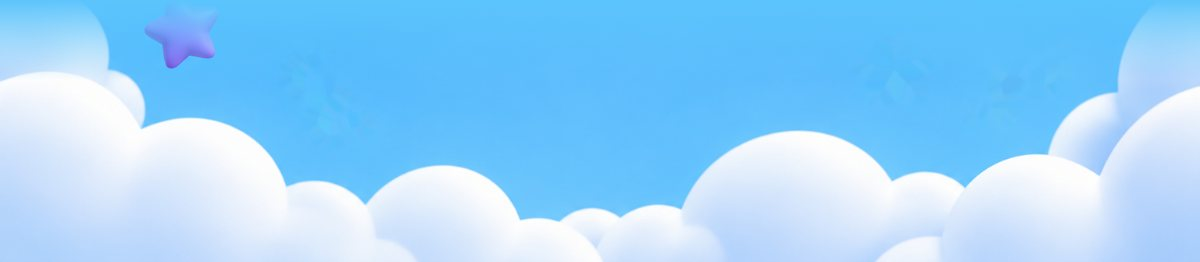
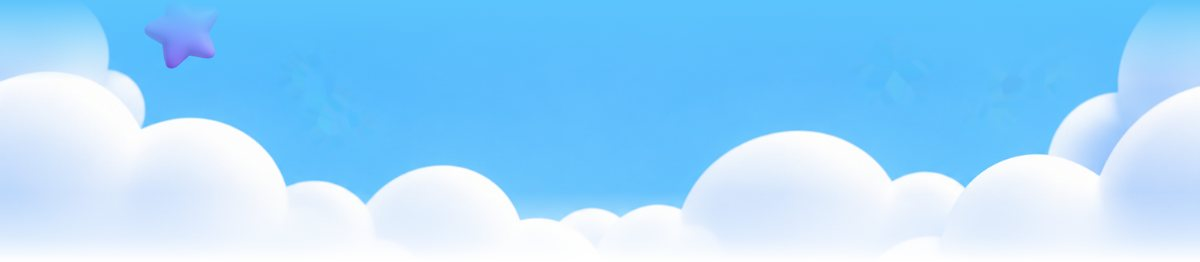
Nubes unificadas en todo el email y botones sin esquinas blancas
Claude-Session: https://claude.ai/code/session_014n8fruw4BUtYLKWozkJouR

Changed region(s): [[0.4933, 0.8244, 1.0, 1.0], [0.0, 0.8244, 0.4625, 1.0], [0.4317, 0.7634, 0.555, 0.855]]

diff --git a/index.html b/index.html
@@ -19,52 +19,52 @@ body{margin:0;padding:0;background:#EEF3F9}
 <tr><td align="center" style="padding:10px 16px;font-family:Arial, Helvetica, sans-serif;font-size:12px;line-height:18px;color:#4A5878;background:#EEF3F9">
 <strong style="color:#0B2A6F">Publicidad</strong> · Ejercicio académico. Mercaviva es una marca ficticia; no es una comunicación oficial de Carrefour.<br>
 ¿No ves bien este email? <a href="{$url}" target="_blank" style="color:#0057B8;text-decoration:underline">Ábrelo en el navegador</a></td></tr>
-<tr><td style="padding:0"><a href="https://www.carrefour.es/lavadora-lg-f2x50s9tlb-9-kg-carga-frontal-1200-rpm-wifi-clase-a-blanco/VC4A-32514266/p?utm_source=newsletter&utm_medium=email&utm_campaign=black_friday_2026&utm_content=lavadora_lg" target="_blank"><img src="https://caarlosfdz.github.io/newsletter-mercaviva/bf-cover.jpg?v=10190848" width="600" alt="Mercaviva. Black Friday del 20 de octubre al 27 de noviembre: 50 % y 70 % de descuento en tecnología, electrodomésticos y alimentación" class="fluid" style="display:block;width:100%;max-width:600px;height:auto;border:0"></a></td></tr>
-<tr><td style="padding:0"><a href="https://www.carrefour.es/lavadora-lg-f2x50s9tlb-9-kg-carga-frontal-1200-rpm-wifi-clase-a-blanco/VC4A-32514266/p?utm_source=newsletter&utm_medium=email&utm_campaign=black_friday_2026&utm_content=lavadora_lg" target="_blank"><img src="https://caarlosfdz.github.io/newsletter-mercaviva/bf-p1.jpg?v=10190848" width="600" alt="Lavadora LG 9 kg: 164,70 €, antes 549 €, 70 % de descuento" class="fluid" style="display:block;width:100%;max-width:600px;height:auto;border:0"></a></td></tr>
-<tr><td style="padding:0"><img src="https://caarlosfdz.github.io/newsletter-mercaviva/bf-tit-tecnologia.jpg?v=10190848" width="600" alt="Ofertas en tecnología: descuentos de hasta el 70 %" class="fluid" style="display:block;width:100%;max-width:600px;height:auto;border:0"></td></tr>
-<tr><td style="padding:0"><img src="https://caarlosfdz.github.io/newsletter-mercaviva/bf-nubes-arriba.jpg?v=10190848" width="600" alt="" class="fluid" style="display:block;width:100%;max-width:600px;height:auto;border:0"></td></tr>
+<tr><td style="padding:0"><a href="https://www.carrefour.es/lavadora-lg-f2x50s9tlb-9-kg-carga-frontal-1200-rpm-wifi-clase-a-blanco/VC4A-32514266/p?utm_source=newsletter&utm_medium=email&utm_campaign=black_friday_2026&utm_content=lavadora_lg" target="_blank"><img src="https://caarlosfdz.github.io/newsletter-mercaviva/bf-cover.jpg?v=10190853" width="600" alt="Mercaviva. Black Friday del 20 de octubre al 27 de noviembre: 50 % y 70 % de descuento en tecnología, electrodomésticos y alimentación" class="fluid" style="display:block;width:100%;max-width:600px;height:auto;border:0"></a></td></tr>
+<tr><td style="padding:0"><a href="https://www.carrefour.es/lavadora-lg-f2x50s9tlb-9-kg-carga-frontal-1200-rpm-wifi-clase-a-blanco/VC4A-32514266/p?utm_source=newsletter&utm_medium=email&utm_campaign=black_friday_2026&utm_content=lavadora_lg" target="_blank"><img src="https://caarlosfdz.github.io/newsletter-mercaviva/bf-p1.jpg?v=10190853" width="600" alt="Lavadora LG 9 kg: 164,70 €, antes 549 €, 70 % de descuento" class="fluid" style="display:block;width:100%;max-width:600px;height:auto;border:0"></a></td></tr>
+<tr><td style="padding:0"><img src="https://caarlosfdz.github.io/newsletter-mercaviva/bf-tit-tecnologia.jpg?v=10190853" width="600" alt="Ofertas en tecnología: descuentos de hasta el 70 %" class="fluid" style="display:block;width:100%;max-width:600px;height:auto;border:0"></td></tr>
+<tr><td style="padding:0"><img src="https://caarlosfdz.github.io/newsletter-mercaviva/bf-nubes-arriba.jpg?v=10190853" width="600" alt="" class="fluid" style="display:block;width:100%;max-width:600px;height:auto;border:0"></td></tr>
 <tr><td bgcolor="#5CC4FC" style="padding:0;background:#5CC4FC"><table role="presentation" cellpadding="0" cellspacing="0" border="0" width="100%"><tr>
-<td class="col" width="300" valign="top" style="width:300px;vertical-align:top"><a href="https://www.carrefour.es/proyector-yaber-pro-u9-proyector-1080p-nativo-con-wifi-5g-y-bluetooth-15000lm-brillo-ultra-alto-460-ansi-corrector-keystone-4p-4d/0602561264473/p?utm_source=newsletter&utm_medium=email&utm_campaign=black_friday_2026&utm_content=proyector_yaber" target="_blank"><img src="https://caarlosfdz.github.io/newsletter-mercaviva/bf-p6.png?v=10190848" width="300" alt="Proyector Yaber Pro U9: 95,22 €, antes 218,99 €, −56,5 % y envío gratis" class="fluid" style="display:block;width:100%;max-width:300px;height:auto;border:0"></a>
-<div style="padding:4px 14px 26px"><table role="presentation" cellpadding="0" cellspacing="0" border="0" width="100%"><tr><td align="center" bgcolor="#FFFFFF" style="border-radius:40px">
-<a href="https://www.carrefour.es/proyector-yaber-pro-u9-proyector-1080p-nativo-con-wifi-5g-y-bluetooth-15000lm-brillo-ultra-alto-460-ansi-corrector-keystone-4p-4d/0602561264473/p?utm_source=newsletter&utm_medium=email&utm_campaign=black_friday_2026&utm_content=proyector_yaber" target="_blank" style="display:block;text-decoration:none"><img src="https://caarlosfdz.github.io/newsletter-mercaviva/bf-btn-p6.png?v=10190848" width="270" alt="Llévatelo ya" class="fluid" style="display:block;width:100%;max-width:270px;height:auto;border:0;font-family:Arial, Helvetica, sans-serif;font-size:16px;font-weight:bold;line-height:52px;color:#0B2A6F;text-align:center"></a></td></tr></table></div></td>
-<td class="col" width="300" valign="top" style="width:300px;vertical-align:top"><a href="https://www.carrefour.es/lavavajillas-60-cm-candy-cf3e7e0w-5-programas-13-cubiertos-clase-e-blanco/VC4A-33175690/p?utm_source=newsletter&utm_medium=email&utm_campaign=black_friday_2026&utm_content=lavavajillas_candy" target="_blank"><img src="https://caarlosfdz.github.io/newsletter-mercaviva/bf-p2.png?v=10190848" width="300" alt="Lavavajillas Candy CF3E7E0W: 154,50 €, antes 309 €, −50 %" class="fluid" style="display:block;width:100%;max-width:300px;height:auto;border:0"></a>
-<div style="padding:4px 14px 26px"><table role="presentation" cellpadding="0" cellspacing="0" border="0" width="100%"><tr><td align="center" bgcolor="#FFFFFF" style="border-radius:40px">
-<a href="https://www.carrefour.es/lavavajillas-60-cm-candy-cf3e7e0w-5-programas-13-cubiertos-clase-e-blanco/VC4A-33175690/p?utm_source=newsletter&utm_medium=email&utm_campaign=black_friday_2026&utm_content=lavavajillas_candy" target="_blank" style="display:block;text-decoration:none"><img src="https://caarlosfdz.github.io/newsletter-mercaviva/bf-btn-p2.png?v=10190848" width="270" alt="Aprovecha el −50 %" class="fluid" style="display:block;width:100%;max-width:270px;height:auto;border:0;font-family:Arial, Helvetica, sans-serif;font-size:16px;font-weight:bold;line-height:52px;color:#0B2A6F;text-align:center"></a></td></tr></table></div></td></tr></table></td></tr>
+<td class="col" width="300" valign="top" style="width:300px;vertical-align:top"><a href="https://www.carrefour.es/proyector-yaber-pro-u9-proyector-1080p-nativo-con-wifi-5g-y-bluetooth-15000lm-brillo-ultra-alto-460-ansi-corrector-keystone-4p-4d/0602561264473/p?utm_source=newsletter&utm_medium=email&utm_campaign=black_friday_2026&utm_content=proyector_yaber" target="_blank"><img src="https://caarlosfdz.github.io/newsletter-mercaviva/bf-p6.png?v=10190853" width="300" alt="Proyector Yaber Pro U9: 95,22 €, antes 218,99 €, −56,5 % y envío gratis" class="fluid" style="display:block;width:100%;max-width:300px;height:auto;border:0"></a>
+<div style="padding:4px 14px 26px"><table role="presentation" cellpadding="0" cellspacing="0" border="0" width="100%"><tr><td align="center" bgcolor="#5CC4FC" style="background:#5CC4FC">
+<a href="https://www.carrefour.es/proyector-yaber-pro-u9-proyector-1080p-nativo-con-wifi-5g-y-bluetooth-15000lm-brillo-ultra-alto-460-ansi-corrector-keystone-4p-4d/0602561264473/p?utm_source=newsletter&utm_medium=email&utm_campaign=black_friday_2026&utm_content=proyector_yaber" target="_blank" style="display:block;text-decoration:none"><img src="https://caarlosfdz.github.io/newsletter-mercaviva/bf-btn-p6.png?v=10190853" width="270" alt="Llévatelo ya" class="fluid" style="display:block;width:100%;max-width:270px;height:auto;border:0;font-family:Arial, Helvetica, sans-serif;font-size:16px;font-weight:bold;line-height:52px;color:#0B2A6F;text-align:center"></a></td></tr></table></div></td>
+<td class="col" width="300" valign="top" style="width:300px;vertical-align:top"><a href="https://www.carrefour.es/lavavajillas-60-cm-candy-cf3e7e0w-5-programas-13-cubiertos-clase-e-blanco/VC4A-33175690/p?utm_source=newsletter&utm_medium=email&utm_campaign=black_friday_2026&utm_content=lavavajillas_candy" target="_blank"><img src="https://caarlosfdz.github.io/newsletter-mercaviva/bf-p2.png?v=10190853" width="300" alt="Lavavajillas Candy CF3E7E0W: 154,50 €, antes 309 €, −50 %" class="fluid" style="display:block;width:100%;max-width:300px;height:auto;border:0"></a>
+<div style="padding:4px 14px 26px"><table role="presentation" cellpadding="0" cellspacing="0" border="0" width="100%"><tr><td align="center" bgcolor="#5CC4FC" style="background:#5CC4FC">
+<a href="https://www.carrefour.es/lavavajillas-60-cm-candy-cf3e7e0w-5-programas-13-cubiertos-clase-e-blanco/VC4A-33175690/p?utm_source=newsletter&utm_medium=email&utm_campaign=black_friday_2026&utm_content=lavavajillas_candy" target="_blank" style="display:block;text-decoration:none"><img src="https://caarlosfdz.github.io/newsletter-mercaviva/bf-btn-p2.png?v=10190853" width="270" alt="Aprovecha el −50 %" class="fluid" style="display:block;width:100%;max-width:270px;height:auto;border:0;font-family:Arial, Helvetica, sans-serif;font-size:16px;font-weight:bold;line-height:52px;color:#0B2A6F;text-align:center"></a></td></tr></table></div></td></tr></table></td></tr>
 <tr><td bgcolor="#5CC4FC" style="padding:0;background:#5CC4FC"><table role="presentation" cellpadding="0" cellspacing="0" border="0" width="100%"><tr>
-<td class="col" width="300" valign="top" style="width:300px;vertical-align:top"><a href="https://www.carrefour.es/tv-lg-oled-evo-c5-2025-83-uhd-4k-oled83c5ela/8806096419687/p?utm_source=newsletter&utm_medium=email&utm_campaign=black_friday_2026&utm_content=tv_lg_oled" target="_blank"><img src="https://caarlosfdz.github.io/newsletter-mercaviva/bf-p5.png?v=10190848" width="300" alt="TV LG OLED evo C5 83 pulgadas: 4.877,62 €, antes 6.150,99 €, −20,7 %" class="fluid" style="display:block;width:100%;max-width:300px;height:auto;border:0"></a>
-<div style="padding:4px 14px 26px"><table role="presentation" cellpadding="0" cellspacing="0" border="0" width="100%"><tr><td align="center" bgcolor="#FFFFFF" style="border-radius:40px">
-<a href="https://www.carrefour.es/tv-lg-oled-evo-c5-2025-83-uhd-4k-oled83c5ela/8806096419687/p?utm_source=newsletter&utm_medium=email&utm_campaign=black_friday_2026&utm_content=tv_lg_oled" target="_blank" style="display:block;text-decoration:none"><img src="https://caarlosfdz.github.io/newsletter-mercaviva/bf-btn-p5.png?v=10190848" width="270" alt="Ahorra 1.273 €" class="fluid" style="display:block;width:100%;max-width:270px;height:auto;border:0;font-family:Arial, Helvetica, sans-serif;font-size:16px;font-weight:bold;line-height:52px;color:#0B2A6F;text-align:center"></a></td></tr></table></div></td>
-<td class="col" width="300" valign="top" style="width:300px;vertical-align:top"><a href="https://www.carrefour.es/consola-nintendo-switch-2-256-gb-star-fox/VLOT-34789303/p?utm_source=newsletter&utm_medium=email&utm_campaign=black_friday_2026&utm_content=switch2_starfox" target="_blank"><img src="https://caarlosfdz.github.io/newsletter-mercaviva/bf-p3.png?v=10190848" width="300" alt="Nintendo Switch 2 + Star Fox: súperchollo a 519 €" class="fluid" style="display:block;width:100%;max-width:300px;height:auto;border:0"></a>
-<div style="padding:4px 14px 26px"><table role="presentation" cellpadding="0" cellspacing="0" border="0" width="100%"><tr><td align="center" bgcolor="#FFFFFF" style="border-radius:40px">
-<a href="https://www.carrefour.es/consola-nintendo-switch-2-256-gb-star-fox/VLOT-34789303/p?utm_source=newsletter&utm_medium=email&utm_campaign=black_friday_2026&utm_content=switch2_starfox" target="_blank" style="display:block;text-decoration:none"><img src="https://caarlosfdz.github.io/newsletter-mercaviva/bf-btn-p3.png?v=10190848" width="270" alt="Ver el súperchollo" class="fluid" style="display:block;width:100%;max-width:270px;height:auto;border:0;font-family:Arial, Helvetica, sans-serif;font-size:16px;font-weight:bold;line-height:52px;color:#0B2A6F;text-align:center"></a></td></tr></table></div></td></tr></table></td></tr>
+<td class="col" width="300" valign="top" style="width:300px;vertical-align:top"><a href="https://www.carrefour.es/tv-lg-oled-evo-c5-2025-83-uhd-4k-oled83c5ela/8806096419687/p?utm_source=newsletter&utm_medium=email&utm_campaign=black_friday_2026&utm_content=tv_lg_oled" target="_blank"><img src="https://caarlosfdz.github.io/newsletter-mercaviva/bf-p5.png?v=10190853" width="300" alt="TV LG OLED evo C5 83 pulgadas: 4.877,62 €, antes 6.150,99 €, −20,7 %" class="fluid" style="display:block;width:100%;max-width:300px;height:auto;border:0"></a>
+<div style="padding:4px 14px 26px"><table role="presentation" cellpadding="0" cellspacing="0" border="0" width="100%"><tr><td align="center" bgcolor="#5CC4FC" style="background:#5CC4FC">
+<a href="https://www.carrefour.es/tv-lg-oled-evo-c5-2025-83-uhd-4k-oled83c5ela/8806096419687/p?utm_source=newsletter&utm_medium=email&utm_campaign=black_friday_2026&utm_content=tv_lg_oled" target="_blank" style="display:block;text-decoration:none"><img src="https://caarlosfdz.github.io/newsletter-mercaviva/bf-btn-p5.png?v=10190853" width="270" alt="Ahorra 1.273 €" class="fluid" style="display:block;width:100%;max-width:270px;height:auto;border:0;font-family:Arial, Helvetica, sans-serif;font-size:16px;font-weight:bold;line-height:52px;color:#0B2A6F;text-align:center"></a></td></tr></table></div></td>
+<td class="col" width="300" valign="top" style="width:300px;vertical-align:top"><a href="https://www.carrefour.es/consola-nintendo-switch-2-256-gb-star-fox/VLOT-34789303/p?utm_source=newsletter&utm_medium=email&utm_campaign=black_friday_2026&utm_content=switch2_starfox" target="_blank"><img src="https://caarlosfdz.github.io/newsletter-mercaviva/bf-p3.png?v=10190853" width="300" alt="Nintendo Switch 2 + Star Fox: súperchollo a 519 €" class="fluid" style="display:block;width:100%;max-width:300px;height:auto;border:0"></a>
+<div style="padding:4px 14px 26px"><table role="presentation" cellpadding="0" cellspacing="0" border="0" width="100%"><tr><td align="center" bgcolor="#5CC4FC" style="background:#5CC4FC">
+<a href="https://www.carrefour.es/consola-nintendo-switch-2-256-gb-star-fox/VLOT-34789303/p?utm_source=newsletter&utm_medium=email&utm_campaign=black_friday_2026&utm_content=switch2_starfox" target="_blank" style="display:block;text-decoration:none"><img src="https://caarlosfdz.github.io/newsletter-mercaviva/bf-btn-p3.png?v=10190853" width="270" alt="Ver el súperchollo" class="fluid" style="display:block;width:100%;max-width:270px;height:auto;border:0;font-family:Arial, Helvetica, sans-serif;font-size:16px;font-weight:bold;line-height:52px;color:#0B2A6F;text-align:center"></a></td></tr></table></div></td></tr></table></td></tr>
 
 <tr><td bgcolor="#5CC4FC" style="padding:0;background:#5CC4FC"><table role="presentation" cellpadding="0" cellspacing="0" border="0" width="100%"><tr>
-<td class="col" width="300" valign="top" style="width:300px;vertical-align:top"><a href="https://www.carrefour.es/pikmin-4-academia-dandori-para-switch-2/VC4A-34697905/p?utm_source=newsletter&utm_medium=email&utm_campaign=black_friday_2026&utm_content=pikmin4" target="_blank"><img src="https://caarlosfdz.github.io/newsletter-mercaviva/bf-p4.png?v=10190848" width="300" alt="Pikmin 4 + Academia Dandori en precompra: 59,90 €, antes 69,99 €, envío gratis" class="fluid" style="display:block;width:100%;max-width:300px;height:auto;border:0"></a>
-<div style="padding:4px 14px 26px"><table role="presentation" cellpadding="0" cellspacing="0" border="0" width="100%"><tr><td align="center" bgcolor="#FFFFFF" style="border-radius:40px">
-<a href="https://www.carrefour.es/pikmin-4-academia-dandori-para-switch-2/VC4A-34697905/p?utm_source=newsletter&utm_medium=email&utm_campaign=black_friday_2026&utm_content=pikmin4" target="_blank" style="display:block;text-decoration:none"><img src="https://caarlosfdz.github.io/newsletter-mercaviva/bf-btn-p4.png?v=10190848" width="270" alt="Resérvalo ya" class="fluid" style="display:block;width:100%;max-width:270px;height:auto;border:0;font-family:Arial, Helvetica, sans-serif;font-size:16px;font-weight:bold;line-height:52px;color:#0B2A6F;text-align:center"></a></td></tr></table></div></td>
+<td class="col" width="300" valign="top" style="width:300px;vertical-align:top"><a href="https://www.carrefour.es/pikmin-4-academia-dandori-para-switch-2/VC4A-34697905/p?utm_source=newsletter&utm_medium=email&utm_campaign=black_friday_2026&utm_content=pikmin4" target="_blank"><img src="https://caarlosfdz.github.io/newsletter-mercaviva/bf-p4.png?v=10190853" width="300" alt="Pikmin 4 + Academia Dandori en precompra: 59,90 €, antes 69,99 €, envío gratis" class="fluid" style="display:block;width:100%;max-width:300px;height:auto;border:0"></a>
+<div style="padding:4px 14px 26px"><table role="presentation" cellpadding="0" cellspacing="0" border="0" width="100%"><tr><td align="center" bgcolor="#5CC4FC" style="background:#5CC4FC">
+<a href="https://www.carrefour.es/pikmin-4-academia-dandori-para-switch-2/VC4A-34697905/p?utm_source=newsletter&utm_medium=email&utm_campaign=black_friday_2026&utm_content=pikmin4" target="_blank" style="display:block;text-decoration:none"><img src="https://caarlosfdz.github.io/newsletter-mercaviva/bf-btn-p4.png?v=10190853" width="270" alt="Resérvalo ya" class="fluid" style="display:block;width:100%;max-width:270px;height:auto;border:0;font-family:Arial, Helvetica, sans-serif;font-size:16px;font-weight:bold;line-height:52px;color:#0B2A6F;text-align:center"></a></td></tr></table></div></td>
 <td class="col" width="300" valign="middle" style="width:300px;vertical-align:middle;padding:20px;font-family:Arial, Helvetica, sans-serif;color:#0B2A6F">
 <p style="margin:0 0 8px;font-size:20px;line-height:24px;font-weight:bold">Envío gratis</p>
 <p style="margin:0;font-size:15px;line-height:21px">En los productos marcados. Ofertas válidas del 20 de octubre al 27 de noviembre o hasta fin de existencias.</p></td></tr></table></td></tr>
-<tr><td style="padding:0"><img src="https://caarlosfdz.github.io/newsletter-mercaviva/bf-nubes-abajo.jpg?v=10190848" width="600" alt="" class="fluid" style="display:block;width:100%;max-width:600px;height:auto;border:0"></td></tr>
-<tr><td style="padding:0"><img src="https://caarlosfdz.github.io/newsletter-mercaviva/bf-tit-compra.jpg?v=10190848" width="600" alt="Ofertas en tu compra: 3x2, 2.ª unidad al 50 % y precios imbatibles" class="fluid" style="display:block;width:100%;max-width:600px;height:auto;border:0"></td></tr>
-<tr><td style="padding:0"><img src="https://caarlosfdz.github.io/newsletter-mercaviva/bf-nubes-arriba.jpg?v=10190848" width="600" alt="" class="fluid" style="display:block;width:100%;max-width:600px;height:auto;border:0"></td></tr>
+<tr><td style="padding:0"><img src="https://caarlosfdz.github.io/newsletter-mercaviva/bf-nubes-abajo.jpg?v=10190853" width="600" alt="" class="fluid" style="display:block;width:100%;max-width:600px;height:auto;border:0"></td></tr>
+<tr><td style="padding:0"><img src="https://caarlosfdz.github.io/newsletter-mercaviva/bf-tit-compra.jpg?v=10190853" width="600" alt="Ofertas en tu compra: 3x2, 2.ª unidad al 50 % y precios imbatibles" class="fluid" style="display:block;width:100%;max-width:600px;height:auto;border:0"></td></tr>
+<tr><td style="padding:0"><img src="https://caarlosfdz.github.io/newsletter-mercaviva/bf-nubes-arriba.jpg?v=10190853" width="600" alt="" class="fluid" style="display:block;width:100%;max-width:600px;height:auto;border:0"></td></tr>
 <tr><td bgcolor="#5CC4FC" style="padding:0;background:#5CC4FC"><table role="presentation" cellpadding="0" cellspacing="0" border="0" width="100%"><tr>
-<td class="col" width="300" valign="top" style="width:300px;vertical-align:top"><a href="https://www.carrefour.es/supermercado/aceite-de-oliva-virgen-serie-oro-coosur-1-l/R-VC4AECOMM-484256/p?utm_source=newsletter&utm_medium=email&utm_campaign=black_friday_2026&utm_content=aceite_coosur" target="_blank"><img src="https://caarlosfdz.github.io/newsletter-mercaviva/bf-p9.png?v=10190848" width="300" alt="Aceite Coosur Serie Oro 1 l: 3x2, el litro sale a 4,13 €" class="fluid" style="display:block;width:100%;max-width:300px;height:auto;border:0"></a>
-<div style="padding:4px 14px 26px"><table role="presentation" cellpadding="0" cellspacing="0" border="0" width="100%"><tr><td align="center" bgcolor="#FFFFFF" style="border-radius:40px">
-<a href="https://www.carrefour.es/supermercado/aceite-de-oliva-virgen-serie-oro-coosur-1-l/R-VC4AECOMM-484256/p?utm_source=newsletter&utm_medium=email&utm_campaign=black_friday_2026&utm_content=aceite_coosur" target="_blank" style="display:block;text-decoration:none"><img src="https://caarlosfdz.github.io/newsletter-mercaviva/bf-btn-p9.png?v=10190848" width="270" alt="Llévate 3, paga 2" class="fluid" style="display:block;width:100%;max-width:270px;height:auto;border:0;font-family:Arial, Helvetica, sans-serif;font-size:16px;font-weight:bold;line-height:52px;color:#0B2A6F;text-align:center"></a></td></tr></table></div></td>
-<td class="col" width="300" valign="top" style="width:300px;vertical-align:top"><a href="https://www.carrefour.es/supermercado/aceite-de-oliva-suave-04-la-espanola-1-l/R-520660257/p?utm_source=newsletter&utm_medium=email&utm_campaign=black_friday_2026&utm_content=aceite_la_espanola" target="_blank"><img src="https://caarlosfdz.github.io/newsletter-mercaviva/bf-p10.png?v=10190848" width="300" alt="Aceite La Española suave 1 l: 3x2, el litro sale a 3,66 €" class="fluid" style="display:block;width:100%;max-width:300px;height:auto;border:0"></a>
-<div style="padding:4px 14px 26px"><table role="presentation" cellpadding="0" cellspacing="0" border="0" width="100%"><tr><td align="center" bgcolor="#FFFFFF" style="border-radius:40px">
-<a href="https://www.carrefour.es/supermercado/aceite-de-oliva-suave-04-la-espanola-1-l/R-520660257/p?utm_source=newsletter&utm_medium=email&utm_campaign=black_friday_2026&utm_content=aceite_la_espanola" target="_blank" style="display:block;text-decoration:none"><img src="https://caarlosfdz.github.io/newsletter-mercaviva/bf-btn-p10.png?v=10190848" width="270" alt="Aprovecha el 3x2" class="fluid" style="display:block;width:100%;max-width:270px;height:auto;border:0;font-family:Arial, Helvetica, sans-serif;font-size:16px;font-weight:bold;line-height:52px;color:#0B2A6F;text-align:center"></a></td></tr></table></div></td></tr></table></td></tr>
+<td class="col" width="300" valign="top" style="width:300px;vertical-align:top"><a href="https://www.carrefour.es/supermercado/aceite-de-oliva-virgen-serie-oro-coosur-1-l/R-VC4AECOMM-484256/p?utm_source=newsletter&utm_medium=email&utm_campaign=black_friday_2026&utm_content=aceite_coosur" target="_blank"><img src="https://caarlosfdz.github.io/newsletter-mercaviva/bf-p9.png?v=10190853" width="300" alt="Aceite Coosur Serie Oro 1 l: 3x2, el litro sale a 4,13 €" class="fluid" style="display:block;width:100%;max-width:300px;height:auto;border:0"></a>
+<div style="padding:4px 14px 26px"><table role="presentation" cellpadding="0" cellspacing="0" border="0" width="100%"><tr><td align="center" bgcolor="#5CC4FC" style="background:#5CC4FC">
+<a href="https://www.carrefour.es/supermercado/aceite-de-oliva-virgen-serie-oro-coosur-1-l/R-VC4AECOMM-484256/p?utm_source=newsletter&utm_medium=email&utm_campaign=black_friday_2026&utm_content=aceite_coosur" target="_blank" style="display:block;text-decoration:none"><img src="https://caarlosfdz.github.io/newsletter-mercaviva/bf-btn-p9.png?v=10190853" width="270" alt="Llévate 3, paga 2" class="fluid" style="display:block;width:100%;max-width:270px;height:auto;border:0;font-family:Arial, Helvetica, sans-serif;font-size:16px;font-weight:bold;line-height:52px;color:#0B2A6F;text-align:center"></a></td></tr></table></div></td>
+<td class="col" width="300" valign="top" style="width:300px;vertical-align:top"><a href="https://www.carrefour.es/supermercado/aceite-de-oliva-suave-04-la-espanola-1-l/R-520660257/p?utm_source=newsletter&utm_medium=email&utm_campaign=black_friday_2026&utm_content=aceite_la_espanola" target="_blank"><img src="https://caarlosfdz.github.io/newsletter-mercaviva/bf-p10.png?v=10190853" width="300" alt="Aceite La Española suave 1 l: 3x2, el litro sale a 3,66 €" class="fluid" style="display:block;width:100%;max-width:300px;height:auto;border:0"></a>
+<div style="padding:4px 14px 26px"><table role="presentation" cellpadding="0" cellspacing="0" border="0" width="100%"><tr><td align="center" bgcolor="#5CC4FC" style="background:#5CC4FC">
+<a href="https://www.carrefour.es/supermercado/aceite-de-oliva-suave-04-la-espanola-1-l/R-520660257/p?utm_source=newsletter&utm_medium=email&utm_campaign=black_friday_2026&utm_content=aceite_la_espanola" target="_blank" style="display:block;text-decoration:none"><img src="https://caarlosfdz.github.io/newsletter-mercaviva/bf-btn-p10.png?v=10190853" width="270" alt="Aprovecha el 3x2" class="fluid" style="display:block;width:100%;max-width:270px;height:auto;border:0;font-family:Arial, Helvetica, sans-serif;font-size:16px;font-weight:bold;line-height:52px;color:#0B2A6F;text-align:center"></a></td></tr></table></div></td></tr></table></td></tr>
 <tr><td bgcolor="#5CC4FC" style="padding:0;background:#5CC4FC"><table role="presentation" cellpadding="0" cellspacing="0" border="0" width="100%"><tr>
-<td class="col" width="300" valign="top" style="width:300px;vertical-align:top"><a href="https://www.carrefour.es/supermercado/salmon-ahumado-noruego-carrefour-extra-100-g/R-682701980/p?utm_source=newsletter&utm_medium=email&utm_campaign=black_friday_2026&utm_content=salmon_ahumado" target="_blank"><img src="https://caarlosfdz.github.io/newsletter-mercaviva/bf-p7.png?v=10190848" width="300" alt="Salmón ahumado noruego Extra 100 g: 2.ª unidad al 50 %, cada una a 2,77 €" class="fluid" style="display:block;width:100%;max-width:300px;height:auto;border:0"></a>
-<div style="padding:4px 14px 26px"><table role="presentation" cellpadding="0" cellspacing="0" border="0" width="100%"><tr><td align="center" bgcolor="#FFFFFF" style="border-radius:40px">
-<a href="https://www.carrefour.es/supermercado/salmon-ahumado-noruego-carrefour-extra-100-g/R-682701980/p?utm_source=newsletter&utm_medium=email&utm_campaign=black_friday_2026&utm_content=salmon_ahumado" target="_blank" style="display:block;text-decoration:none"><img src="https://caarlosfdz.github.io/newsletter-mercaviva/bf-btn-p7.png?v=10190848" width="270" alt="Añadir a la cesta" class="fluid" style="display:block;width:100%;max-width:270px;height:auto;border:0;font-family:Arial, Helvetica, sans-serif;font-size:16px;font-weight:bold;line-height:52px;color:#0B2A6F;text-align:center"></a></td></tr></table></div></td>
-<td class="col" width="300" valign="top" style="width:300px;vertical-align:top"><a href="https://www.carrefour.es/supermercado/lubina-600-g-aprox/R-790212148/p?utm_source=newsletter&utm_medium=email&utm_campaign=black_friday_2026&utm_content=lubina" target="_blank"><img src="https://caarlosfdz.github.io/newsletter-mercaviva/bf-p8.png?v=10190848" width="300" alt="Lubina 600 g aprox.: 5,39 €, antes 5,97 €" class="fluid" style="display:block;width:100%;max-width:300px;height:auto;border:0"></a>
-<div style="padding:4px 14px 26px"><table role="presentation" cellpadding="0" cellspacing="0" border="0" width="100%"><tr><td align="center" bgcolor="#FFFFFF" style="border-radius:40px">
-<a href="https://www.carrefour.es/supermercado/lubina-600-g-aprox/R-790212148/p?utm_source=newsletter&utm_medium=email&utm_campaign=black_friday_2026&utm_content=lubina" target="_blank" style="display:block;text-decoration:none"><img src="https://caarlosfdz.github.io/newsletter-mercaviva/bf-btn-p8.png?v=10190848" width="270" alt="Quiero esta lubina" class="fluid" style="display:block;width:100%;max-width:270px;height:auto;border:0;font-family:Arial, Helvetica, sans-serif;font-size:16px;font-weight:bold;line-height:52px;color:#0B2A6F;text-align:center"></a></td></tr></table></div></td></tr></table></td></tr>
-<tr><td style="padding:0"><img src="https://caarlosfdz.github.io/newsletter-mercaviva/bf-nubes-abajo.jpg?v=10190848" width="600" alt="" class="fluid" style="display:block;width:100%;max-width:600px;height:auto;border:0"></td></tr>
+<td class="col" width="300" valign="top" style="width:300px;vertical-align:top"><a href="https://www.carrefour.es/supermercado/salmon-ahumado-noruego-carrefour-extra-100-g/R-682701980/p?utm_source=newsletter&utm_medium=email&utm_campaign=black_friday_2026&utm_content=salmon_ahumado" target="_blank"><img src="https://caarlosfdz.github.io/newsletter-mercaviva/bf-p7.png?v=10190853" width="300" alt="Salmón ahumado noruego Extra 100 g: 2.ª unidad al 50 %, cada una a 2,77 €" class="fluid" style="display:block;width:100%;max-width:300px;height:auto;border:0"></a>
+<div style="padding:4px 14px 26px"><table role="presentation" cellpadding="0" cellspacing="0" border="0" width="100%"><tr><td align="center" bgcolor="#5CC4FC" style="background:#5CC4FC">
+<a href="https://www.carrefour.es/supermercado/salmon-ahumado-noruego-carrefour-extra-100-g/R-682701980/p?utm_source=newsletter&utm_medium=email&utm_campaign=black_friday_2026&utm_content=salmon_ahumado" target="_blank" style="display:block;text-decoration:none"><img src="https://caarlosfdz.github.io/newsletter-mercaviva/bf-btn-p7.png?v=10190853" width="270" alt="Añadir a la cesta" class="fluid" style="display:block;width:100%;max-width:270px;height:auto;border:0;font-family:Arial, Helvetica, sans-serif;font-size:16px;font-weight:bold;line-height:52px;color:#0B2A6F;text-align:center"></a></td></tr></table></div></td>
+<td class="col" width="300" valign="top" style="width:300px;vertical-align:top"><a href="https://www.carrefour.es/supermercado/lubina-600-g-aprox/R-790212148/p?utm_source=newsletter&utm_medium=email&utm_campaign=black_friday_2026&utm_content=lubina" target="_blank"><img src="https://caarlosfdz.github.io/newsletter-mercaviva/bf-p8.png?v=10190853" width="300" alt="Lubina 600 g aprox.: 5,39 €, antes 5,97 €" class="fluid" style="display:block;width:100%;max-width:300px;height:auto;border:0"></a>
+<div style="padding:4px 14px 26px"><table role="presentation" cellpadding="0" cellspacing="0" border="0" width="100%"><tr><td align="center" bgcolor="#5CC4FC" style="background:#5CC4FC">
+<a href="https://www.carrefour.es/supermercado/lubina-600-g-aprox/R-790212148/p?utm_source=newsletter&utm_medium=email&utm_campaign=black_friday_2026&utm_content=lubina" target="_blank" style="display:block;text-decoration:none"><img src="https://caarlosfdz.github.io/newsletter-mercaviva/bf-btn-p8.png?v=10190853" width="270" alt="Quiero esta lubina" class="fluid" style="display:block;width:100%;max-width:270px;height:auto;border:0;font-family:Arial, Helvetica, sans-serif;font-size:16px;font-weight:bold;line-height:52px;color:#0B2A6F;text-align:center"></a></td></tr></table></div></td></tr></table></td></tr>
+<tr><td style="padding:0"><img src="https://caarlosfdz.github.io/newsletter-mercaviva/bf-nubes-abajo.jpg?v=10190853" width="600" alt="" class="fluid" style="display:block;width:100%;max-width:600px;height:auto;border:0"></td></tr>
 <tr><td align="center" style="padding:10px 20px 6px"><a href="https://www.mercaviva.es/?utm_source=newsletter&utm_medium=email&utm_campaign=black_friday_2026&utm_content=footer" target="_blank" style="font-family:Arial, Helvetica, sans-serif;font-size:16px;font-weight:bold;color:#0057B8;text-decoration:none">www.mercaviva.es</a></td></tr>
-<tr><td align="center" style="padding:8px 20px 18px"><table role="presentation" cellpadding="0" cellspacing="0" border="0"><tr><td style="padding:0 6px"><a href="https://www.mercaviva.es/redes/instagram" target="_blank"><img src="https://caarlosfdz.github.io/newsletter-mercaviva/bf-ico-instagram.png?v=10190848" width="40" height="40" alt="Instagram" style="display:block;border:0;width:40px;height:40px"></a></td><td style="padding:0 6px"><a href="https://www.mercaviva.es/redes/facebook" target="_blank"><img src="https://caarlosfdz.github.io/newsletter-mercaviva/bf-ico-facebook.png?v=10190848" width="40" height="40" alt="Facebook" style="display:block;border:0;width:40px;height:40px"></a></td><td style="padding:0 6px"><a href="https://www.mercaviva.es/redes/tiktok" target="_blank"><img src="https://caarlosfdz.github.io/newsletter-mercaviva/bf-ico-tiktok.png?v=10190848" width="40" height="40" alt="TikTok" style="display:block;border:0;width:40px;height:40px"></a></td><td style="padding:0 6px"><a href="https://www.mercaviva.es/redes/youtube" target="_blank"><img src="https://caarlosfdz.github.io/newsletter-mercaviva/bf-ico-youtube.png?v=10190848" width="40" height="40" alt="YouTube" style="display:block;border:0;width:40px;height:40px"></a></td><td style="padding:0 6px"><a href="https://www.mercaviva.es/redes/x" target="_blank"><img src="https://caarlosfdz.github.io/newsletter-mercaviva/bf-ico-x.png?v=10190848" width="40" height="40" alt="X" style="display:block;border:0;width:40px;height:40px"></a></td></tr></table></td></tr>
+<tr><td align="center" style="padding:8px 20px 18px"><table role="presentation" cellpadding="0" cellspacing="0" border="0"><tr><td style="padding:0 6px"><a href="https://www.mercaviva.es/redes/instagram" target="_blank"><img src="https://caarlosfdz.github.io/newsletter-mercaviva/bf-ico-instagram.png?v=10190853" width="40" height="40" alt="Instagram" style="display:block;border:0;width:40px;height:40px"></a></td><td style="padding:0 6px"><a href="https://www.mercaviva.es/redes/facebook" target="_blank"><img src="https://caarlosfdz.github.io/newsletter-mercaviva/bf-ico-facebook.png?v=10190853" width="40" height="40" alt="Facebook" style="display:block;border:0;width:40px;height:40px"></a></td><td style="padding:0 6px"><a href="https://www.mercaviva.es/redes/tiktok" target="_blank"><img src="https://caarlosfdz.github.io/newsletter-mercaviva/bf-ico-tiktok.png?v=10190853" width="40" height="40" alt="TikTok" style="display:block;border:0;width:40px;height:40px"></a></td><td style="padding:0 6px"><a href="https://www.mercaviva.es/redes/youtube" target="_blank"><img src="https://caarlosfdz.github.io/newsletter-mercaviva/bf-ico-youtube.png?v=10190853" width="40" height="40" alt="YouTube" style="display:block;border:0;width:40px;height:40px"></a></td><td style="padding:0 6px"><a href="https://www.mercaviva.es/redes/x" target="_blank"><img src="https://caarlosfdz.github.io/newsletter-mercaviva/bf-ico-x.png?v=10190853" width="40" height="40" alt="X" style="display:block;border:0;width:40px;height:40px"></a></td></tr></table></td></tr>
 <tr><td style="padding:16px 24px 26px;font-family:Arial, Helvetica, sans-serif;font-size:12px;line-height:18px;color:#4A5878;background:#EEF3F9">
 <p style="margin:0 0 10px"><strong style="color:#0B2A6F">Condiciones de las promociones.</strong> Válidas del 20/10/2026 al 27/11/2026 o hasta fin de existencias. <strong>3x2:</strong> al comprar 3 unidades del mismo producto, la de menor precio sale gratis. <strong>2.ª ud. al 50 %:</strong> descuento del 50 % en la segunda unidad del mismo producto. <strong>Envío gratis:</strong> solo en los productos indicados y en envíos a la península. Precios con IVA incluido. Descuentos calculados sobre el precio anterior indicado.</p>
 <p style="margin:0 0 10px">Recibes este email porque estás suscrito a la newsletter de Mercaviva. Remitente: Mercaviva Supermercados, S.A. (empresa ficticia), C/ Ejemplo, 1, 28000 Madrid. Consulta nuestra <a href="https://www.mercaviva.es/privacidad" target="_blank" style="color:#0057B8;text-decoration:underline">política de privacidad</a> o <a href="{$unsubscribe}" target="_blank" style="color:#0057B8;text-decoration:underline">date de baja</a> cuando quieras.</p>
